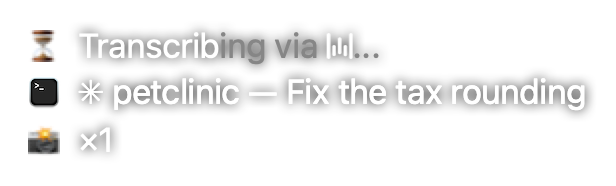
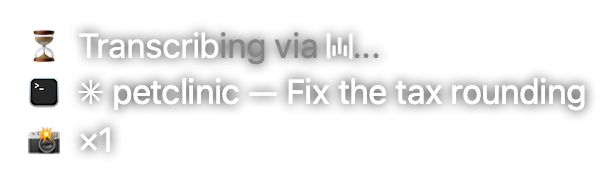
States page re-shot: transcribing-local-now replaces listening-local-now
`docs/shoot-overlay-states.sh` on the installed build (8dddb6c's rename of the
⌘⌃X row's shot — the row now shows from 1 s into the transcription, never while
recording — plus the wave-3 build).

Claude-Session: https://claude.ai/code/session_017SnTSsktVu95Cfjn66iQGG

Changed region(s): [[0.0308, 0.672, 0.1234, 0.8333], [0.0308, 0.1613, 0.0925, 0.3495]]

diff --git a/docs/overlay-states.html b/docs/overlay-states.html
@@ -447,15 +447,15 @@
         <p class="note">The one row left in which Victor is waiting on the app — <code>preparing</code>, the model coming up, was the other, and it stopped existing once the weights started loading at launch instead of at the first gesture. It used to be a flash, which put it at the foot of a panel while the thing it replaced sat at the top. The seconds it used to count down came off on 2026-09-08 — the filling word says the same estimate, and a number ticking toward zero is a deadline to watch.</p>
         <code class="slug">transcribing</code>
       </section>
-      <section class="card" id="listening-local-now">
+      <section class="card" id="transcribing-local-now">
         <header>
           <h3>⌘⌃X — the local model, now</h3>
           <div class="tags"><span class="tag tag-chip" title="bare text beside the cursor — no blur, no shadow, no ✕">chip</span><span class="tag">alpha 0.80</span><span class="tag">308×117 pt</span></div>
         </header>
-        <div class="shot"><img src="states/listening-local-now.png" width="308" height="117" style="opacity:0.8" alt="⌘⌃X — the local model, now"></div>
-        <p class="when">While a sentence records on ElevenLabs (or Wispr Flow), and while its words are on their way back.</p>
-        <p class="note"><strong>The quick exit, written where he is looking</strong> (2026-09-28). Victor: <em>&quot;I want a local fallback that I can access during the dictation, at any point, through a key combination displayed in the tooltip&quot;</em>. ⌘⌃X closes the microphone as the ordinary stop does and has this Mac transcribe the take — nothing is uploaded; pressed during the wait, the cloud answer is abandoned and only logged when it lands. A row like <code>📋 Re-paste ⌘V</code>: an emoji, the words, the keys. It goes when the words land.</p>
-        <code class="slug">listening-local-now</code>
+        <div class="shot"><img src="states/transcribing-local-now.png" width="308" height="117" style="opacity:0.8" alt="⌘⌃X — the local model, now"></div>
+        <p class="when">From one second into the wait for ElevenLabs (or Wispr Flow) — never while the microphone is open.</p>
+        <p class="note"><strong>The quick exit, written where he is looking</strong> (2026-09-28). Victor: <em>&quot;I want a local fallback that I can access during the dictation, at any point, through a key combination displayed in the tooltip&quot;</em>. ⌘⌃X closes the microphone as the ordinary stop does and has this Mac transcribe the take — nothing is uploaded; pressed during the wait, the cloud answer is abandoned and only logged when it lands. A row like <code>📋 Re-paste ⌘V</code>: an emoji, the words, the keys. The key works from the first sample; the row waits a second into the transcription (<em>&quot;only displayed after 1 s after starting the transcribing&quot;</em>), so a fast engine never shows it. It goes when the words land.</p>
+        <code class="slug">transcribing-local-now</code>
       </section>
       <section class="card" id="transcribing-local-now-loading">
         <header>
@@ -666,9 +666,9 @@
       <section class="card" id="prompt-long">
         <header>
           <h3>A long transcript</h3>
-          <div class="tags"><span class="tag tag-panel" title="top-left of the screen, blurred, full opacity, ✕ on hover">panel</span><span class="tag">alpha 1.00</span><span class="tag">640×136 pt</span></div>
+          <div class="tags"><span class="tag tag-panel" title="top-left of the screen, blurred, full opacity, ✕ on hover">panel</span><span class="tag">alpha 1.00</span><span class="tag">576×136 pt</span></div>
         </header>
-        <div class="shot"><img src="states/prompt-long.png" width="640" height="136" style="opacity:1" alt="A long transcript"></div>
+        <div class="shot"><img src="states/prompt-long.png" width="576" height="136" style="opacity:1" alt="A long transcript"></div>
         <p class="when">A sentence that does not fit one line — the panel wraps and grows.</p>
         <p class="note">Width is capped at a third of the screen and the height at what is left of it; the transcript row is measured by asking the label, not by a parallel calculation, because any disagreement is a sentence that silently stops.</p>
         <code class="slug">prompt-long</code>
@@ -705,7 +705,7 @@
       </section>
     </div>
 <footer>
-  Generated from <code>OverlayStates.swift</code> · repo at f565b85 · 28 Sep 2026 · built 28 Sep 2026, 20:25
+  Generated from <code>OverlayStates.swift</code> · repo at 575bbb2 · 28 Sep 2026 · built 28 Sep 2026, 22:17
 </footer>
 <button class="toggle" onclick="document.body.classList.toggle('light')">Backdrop: dark / light</button>
 </body>
